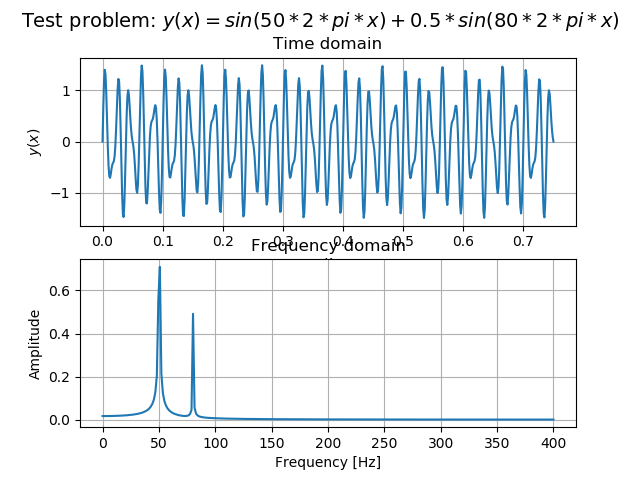
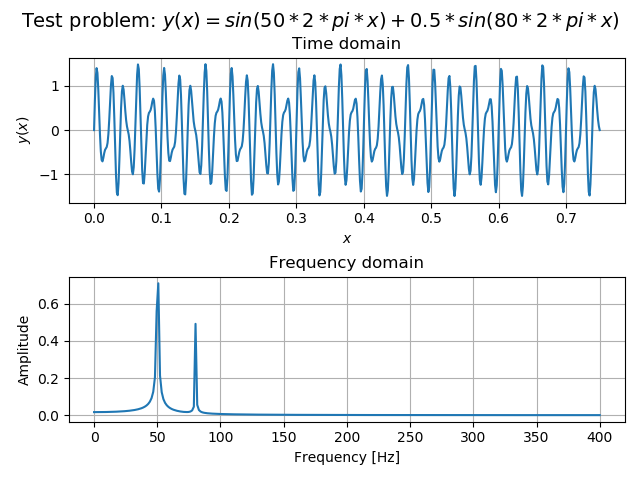
Plotting final + output images

diff --git a/FFTcomputation.py b/FFTcomputation.py
@@ -25,7 +25,7 @@ class FFT:
         axs[0].grid(True)
 
         axs[1].plot(xf,yf)
-        axs[1].set_xlim(0, 6)
+        axs[1].set_xlim(0, 10)
         axs[1].set_ylim(0, 20000)
         axs[1].set_title('Frequency domain: FFT of raw signal')
         axs[1].set_xlabel('Frequency [1/day]')
@@ -33,14 +33,14 @@ class FFT:
         axs[1].grid(True)
 
         axs[2].plot(xf,yNoPeak)
-        axs[2].set_xlim(0, 6)
+        axs[2].set_xlim(0, 10)
         axs[2].set_title('Frequency domain: FFT of y = y - mean(y)')
         axs[2].set_xlabel('Frequency [1/day]')
         axs[2].set_ylabel('Amplitude')
         axs[2].grid(True)
 
         axs[3].plot(xf,yClean)
-        axs[3].set_xlim(0, 6)
+        axs[3].set_xlim(0, 10)
         axs[3].set_title('Frequency domain: FFT of y = y*window')
         axs[3].set_xlabel('Frequency [1/day]')
         axs[3].set_ylabel('Amplitude')

diff --git a/testFFT.py b/testFFT.py
@@ -14,11 +14,7 @@ y = np.sin(50.0 * 2.0*np.pi*x) + 0.5*np.sin(80.0 * 2.0*np.pi*x)
 fft          = FFT()
 x, y, xf, yf = fft.compute(x, y, T*N)
 
-# Plot FFT, computed using FFT().compute
-# plt.plot(xf, yf)
-# plt.grid()
-# plt.show()
-
+# Plot
 fig, axs = plt.subplots(2, 1)
 fig.suptitle('Test problem: $y(x) = sin(50*2*pi*x) + 0.5*sin(80*2*pi*x)$', fontsize=14)
 axs[0].plot(x,y)
@@ -33,8 +29,7 @@ axs[1].set_xlabel('Frequency [Hz]')
 axs[1].set_ylabel('Amplitude')
 axs[1].grid(True)
 
-plt.savefig('outputImage_testFFT.png')
-
 fig.tight_layout()
 fig.subplots_adjust(top=0.88)
+plt.savefig('outputImage_testFFT.png')
 plt.show()
